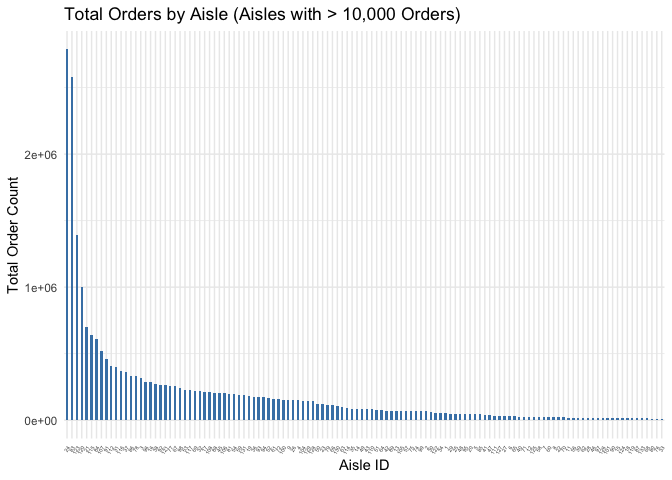
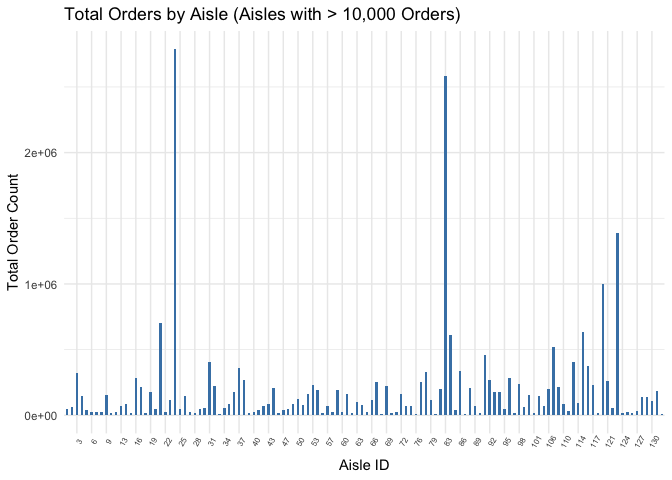
Do some transformation to the dataset and make some observations of key variables. Make plot and table.

diff --git a/p8105_hw3_jx2562.md b/p8105_hw3_jx2562.md
@@ -7,17 +7,6 @@ Jingyi
 library(tidyverse)
 ```
 
-    ## ── Attaching core tidyverse packages ──────────────────────── tidyverse 2.0.0 ──
-    ## ✔ dplyr     1.1.3     ✔ readr     2.1.4
-    ## ✔ forcats   1.0.0     ✔ stringr   1.5.0
-    ## ✔ ggplot2   3.4.3     ✔ tibble    3.2.1
-    ## ✔ lubridate 1.9.2     ✔ tidyr     1.3.0
-    ## ✔ purrr     1.0.2     
-    ## ── Conflicts ────────────────────────────────────────── tidyverse_conflicts() ──
-    ## ✖ dplyr::filter() masks stats::filter()
-    ## ✖ dplyr::lag()    masks stats::lag()
-    ## ℹ Use the conflicted package (<http://conflicted.r-lib.org/>) to force all conflicts to become errors
-
 ## Problem 1
 
 This problem aims to explore `instacart` data.
@@ -36,6 +25,9 @@ The data `instacart` has features as described below.
   reordered, user_id, eval_set, order_number, order_dow,
   order_hour_of_day, days_since_prior_order, product_name, aisle_id,
   department_id, aisle, department.
+- There are 134 diffrent aisles, whose `aisle_id` range from 1 to 134.
+- There are 39123 different product.
+- Overall, the `order_number` ranges from 4 to 100 with a mean 17.09
 - An example of the observations of the data is demonstrated below.
 
 ``` r
@@ -54,8 +46,8 @@ head(instacart, 3)
 
 Then, we need to answer a few questions regarding the dataset.
 
-1.  How many aisles are there, and which aisles are the most items
-    ordered from?
+1.  *How many aisles are there, and which aisles are the most items
+    ordered from?*
 
 - There are 134 different aisles.
 
@@ -69,29 +61,76 @@ aisle_order = instacart |>
 - The aisle where most items are ordered from and the number of order
   are fresh fruits, 2787084.
 
-2.  Make a plot that shows the number of items ordered in each aisle,
-    limiting this to aisles with more than 10000 items ordered.
+2.  *Make a plot that shows the number of items ordered in each aisle,
+    limiting this to aisles with more than 10000 items ordered. *
 
 ``` r
 aisle_order_10000 = instacart |>
   group_by(aisle_id) |>
   summarize(order_number_aisle = sum(order_number)) |>
-  filter(order_number_aisle > 10000)
+  filter(order_number_aisle > 10000) |>
+  mutate(aisle_id = as.factor(aisle_id))
 
-ggplot(aisle_order_10000, aes(x = reorder(aisle_id, -order_number_aisle), y = order_number_aisle)) +
+ggplot(aisle_order_10000, aes(x = aisle_id, y = order_number_aisle)) +
   geom_bar(stat = "identity", fill = "steelblue",  width = 0.5) +
   labs(x = "Aisle ID", y = "Total Order Count", title = "Total Orders by Aisle (Aisles with > 10,000 Orders)") +
   theme_minimal() +
-  theme(axis.text.x = element_text(angle = 60, hjust = 1, size = 4)) 
+  theme(axis.text.x = element_text(angle = 60, size = 6)) +
+  scale_x_discrete(breaks = aisle_order_10000$aisle_id[1:nrow(aisle_order_10000) %% 3 == 0])
 ```
 
 ![](p8105_hw3_jx2562_files/figure-gfm/unnamed-chunk-5-1.png)<!-- --> \*
 Given the aisle id, we can look up to the exact aisle name. There are
 122 out of 134 which has an order number larger than 10000. The aisles
 with top 5 total order number count are fresh fruits, fresh vegetables,
-packaged vegetables fruits, yogurt, packaged cheese
+packaged vegetables fruits, yogurt, packaged cheese.
 
-3.  Make a table showing the three most popular items in each of the
+3.  *Make a table showing the three most popular items in each of the
     aisles “baking ingredients”, “dog food care”, and “packaged
     vegetables fruits”. Include the number of times each item is ordered
-    in your table.
+    in your table.*
+
+``` r
+aisle_times = instacart |>
+  group_by(aisle) |>
+  summarize(order_times = n()) |>
+  filter(aisle %in% c("baking ingredients", "dog food care", "packaged vegetables fruits")) 
+knitr::kable(aisle_times)
+```
+
+| aisle                      | order_times |
+|:---------------------------|------------:|
+| baking ingredients         |       13088 |
+| dog food care              |        1612 |
+| packaged vegetables fruits |       78493 |
+
+- The number of times ordered is obtained by counting the number of
+  order in each aisle for the three types of aisles. It shows that
+  `packaged vegetables fruits` has the most order times.
+
+4.  *Make a table showing the mean hour of the day at which Pink Lady
+    Apples and Coffee Ice Cream are ordered on each day of the week.*
+
+``` r
+product_hour = instacart |>
+  filter(product_name %in% c("Pink Lady Apples", "Coffee Ice Cream")) |>
+  group_by(product_name, order_dow) |>
+  summarize(mean_order_hour = round(mean(order_hour_of_day),2)) |>
+  pivot_wider(names_from = order_dow, values_from = mean_order_hour) 
+```
+
+    ## `summarise()` has grouped output by 'product_name'. You can override using the
+    ## `.groups` argument.
+
+``` r
+colnames(product_hour)[2:8] = c("Sun","Mon","Tue","Wed","Thu","Fri","Sat")
+knitr::kable(product_hour)
+```
+
+| product_name     |   Sun |   Mon |   Tue |   Wed |   Thu |   Fri |   Sat |
+|:-----------------|------:|------:|------:|------:|------:|------:|------:|
+| Coffee Ice Cream | 13.77 | 14.32 | 15.38 | 15.32 | 15.22 | 12.26 | 13.83 |
+| Pink Lady Apples | 13.44 | 11.36 | 11.70 | 14.25 | 11.55 | 12.78 | 11.94 |
+
+- The table shows the mean hour of the day at which the two product are
+  ordered in terms of each day of the week.
